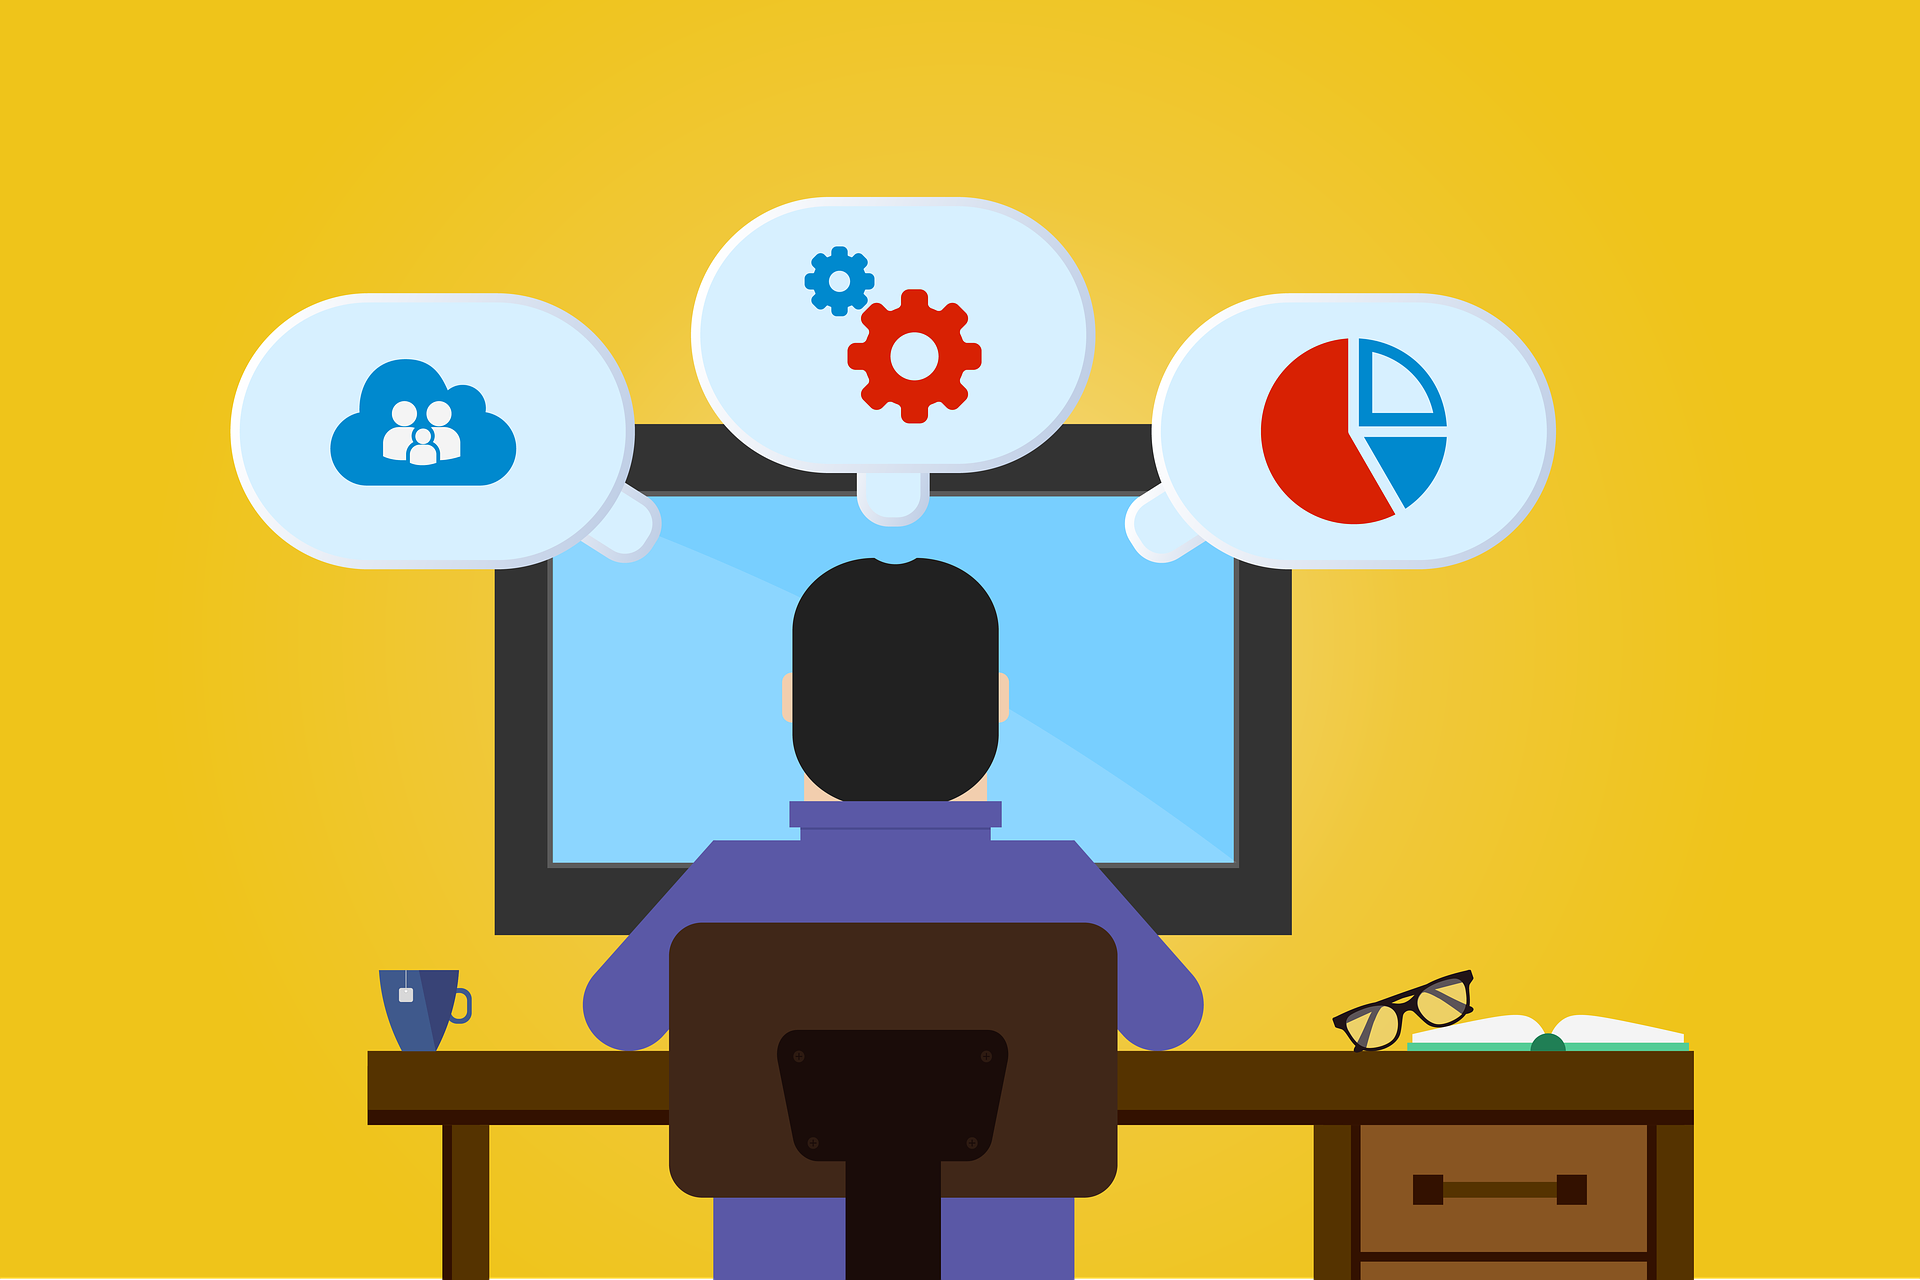
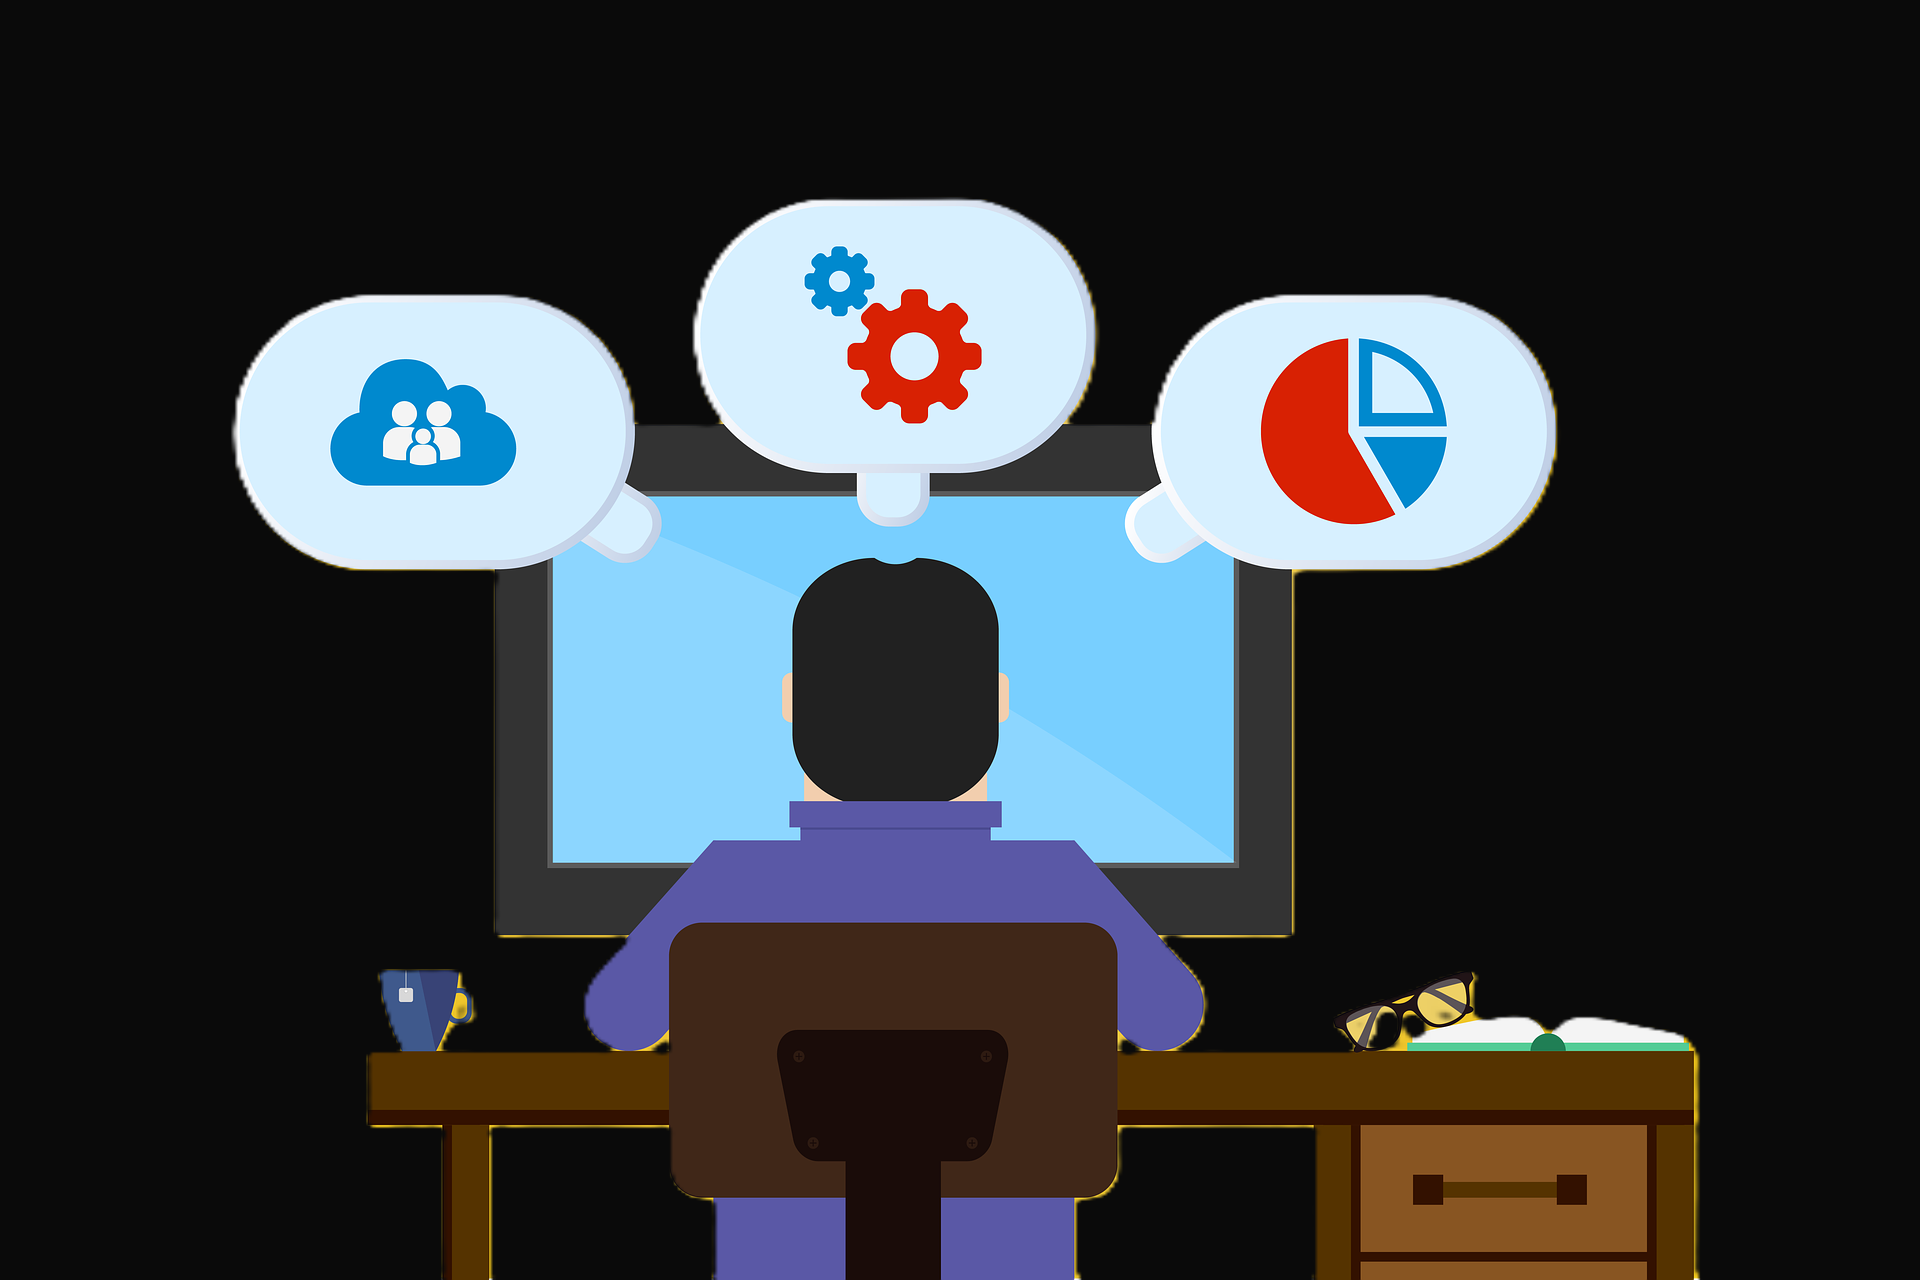
compled

diff --git a/index.html b/index.html
@@ -2,7 +2,7 @@
 <html lang="en">
   <head>
     <meta charset="UTF-8" />
-    <link rel="icon"  href="images/developer-3461405_1920.png" />
+    <link rel="icon"  href="public/images/student-avatar-illustration-user-profile-icon-youth-simple-cartoon-portrait-vector-276205499.png" />
     <meta name="viewport" content="width=device-width, initial-scale=1.0" />
     <link rel="stylesheet" href="./src/index.css">
     <title>Krishnan T</title>

diff --git a/src/components/navbar.jsx b/src/components/navbar.jsx
@@ -12,7 +12,7 @@ const Navbar = () => {
   return (
     <header className="header">
       <a href="#" className="logo">
-        <img src="public/images/644617.png" alt="Logo" />
+        <img src="public/images/student-avatar-illustration-user-profile-icon-youth-simple-cartoon-portrait-vector-276205499.png" alt="Logo" />
       </a>
 
       {/* Toggle between hamburger and close icons */}
